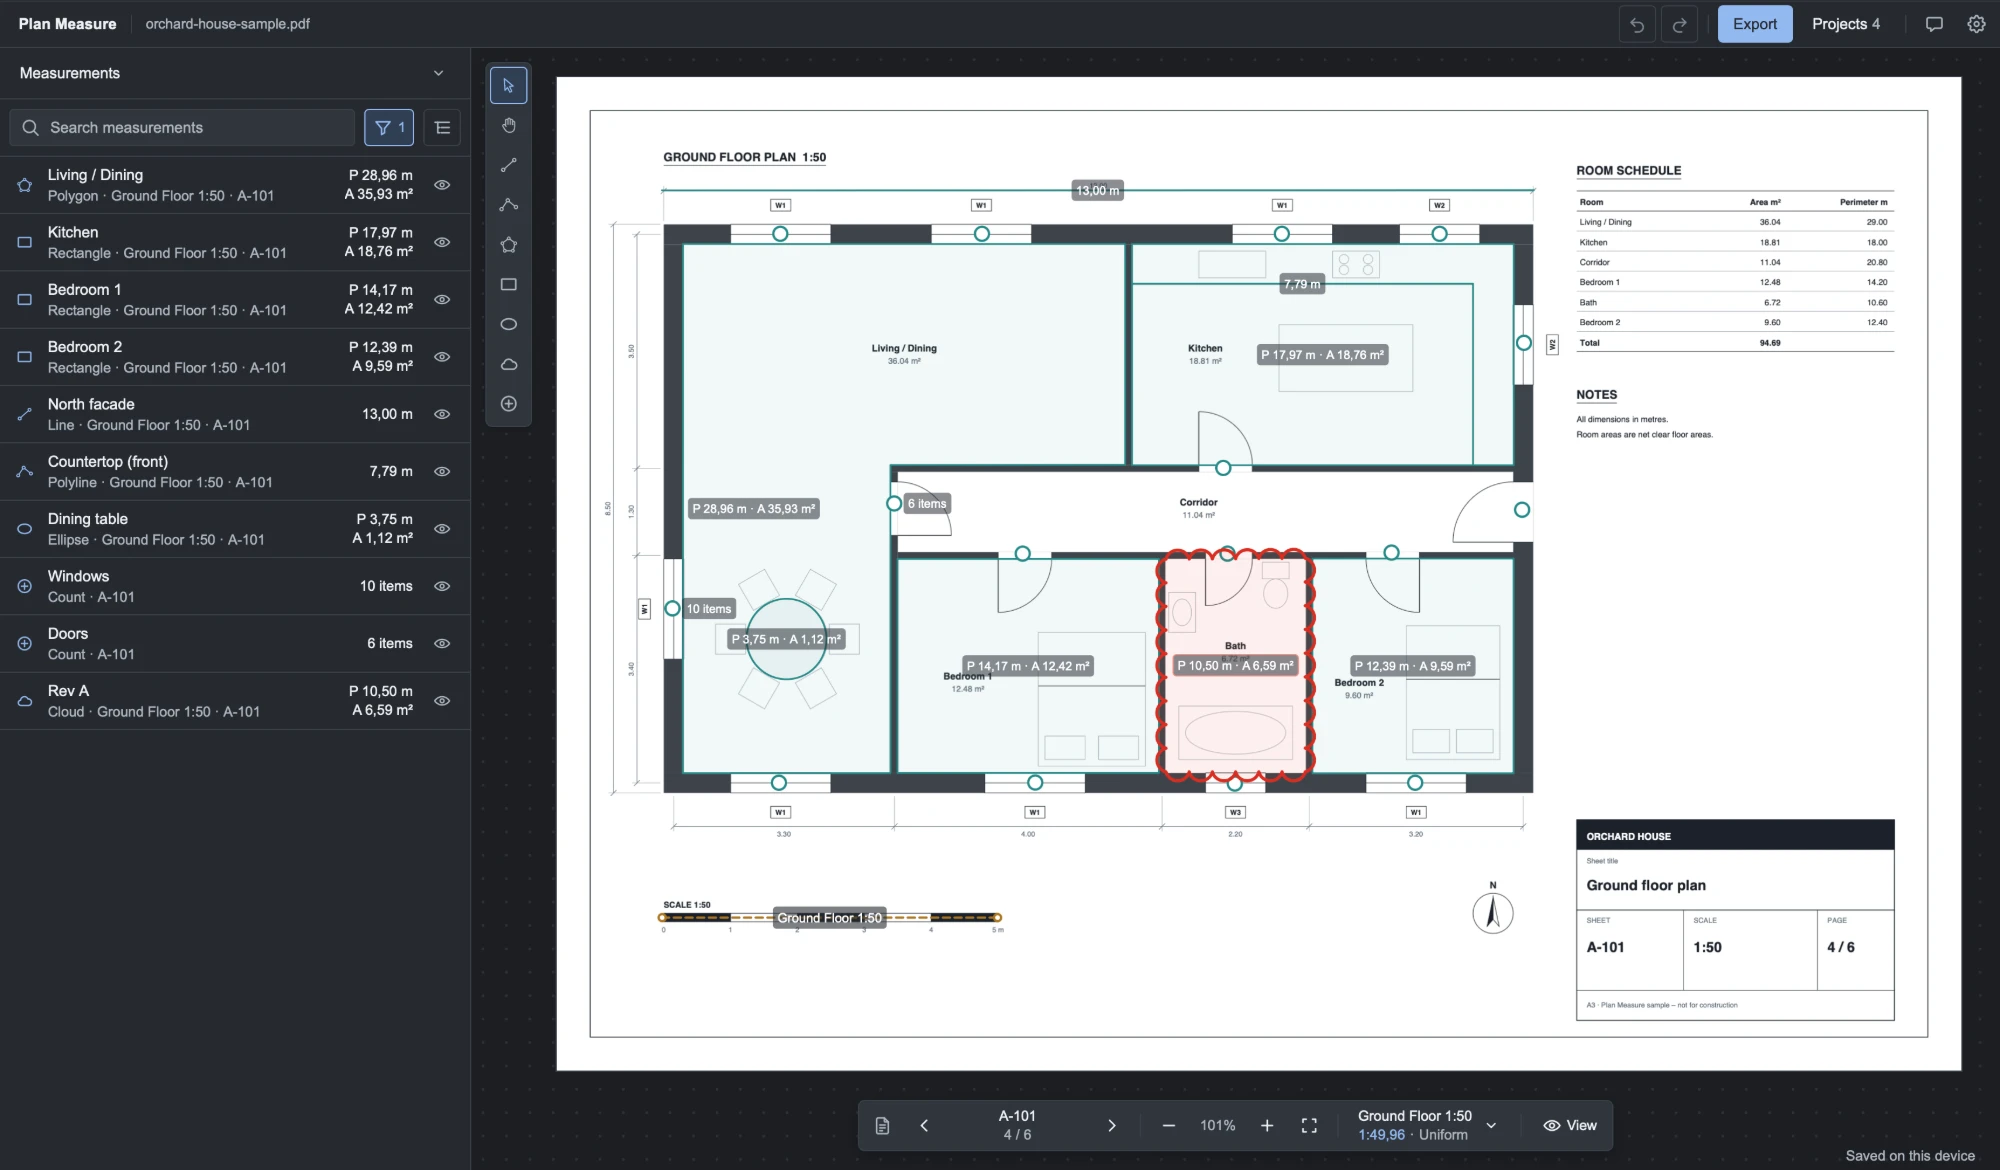
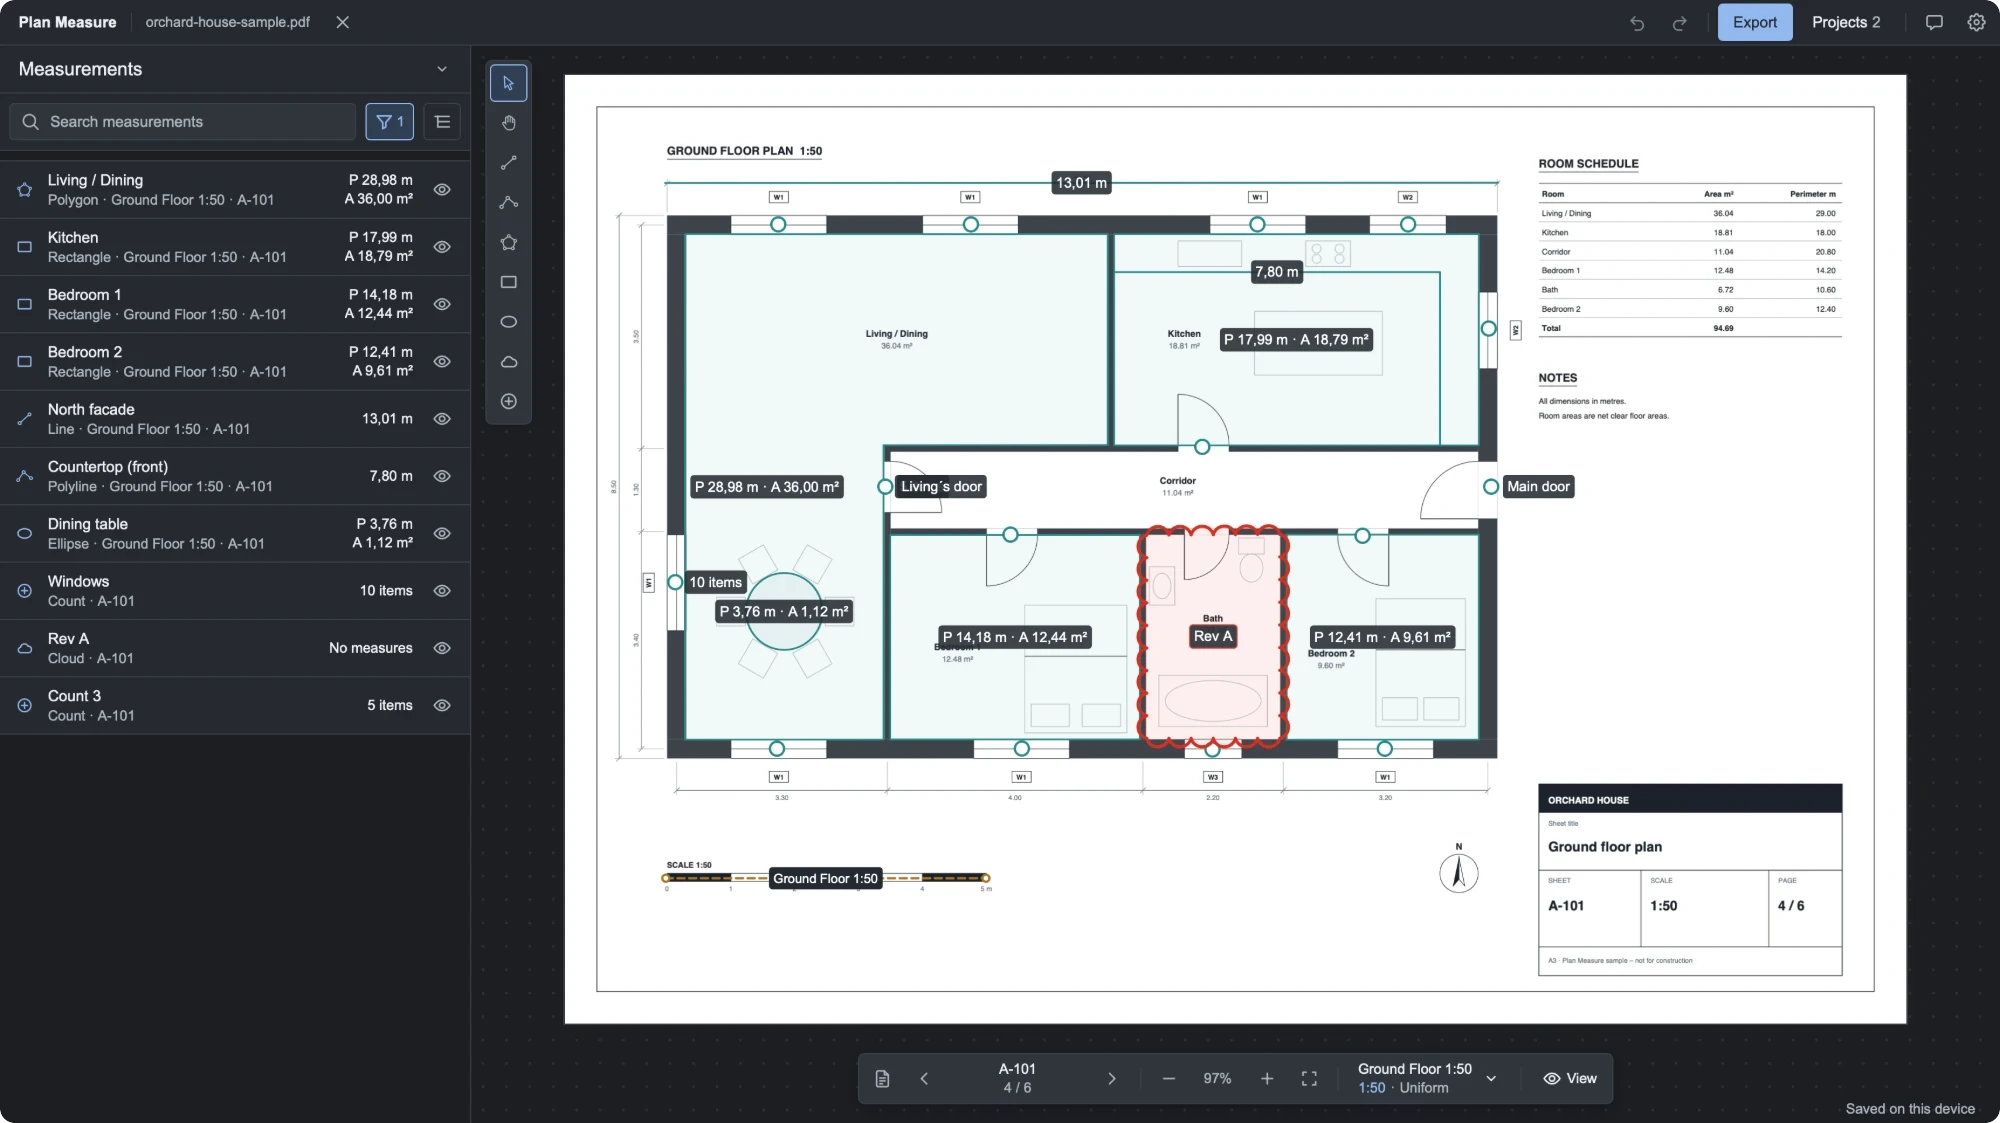
docs: refresh README screenshot and rewrite its copy (#485)
## Summary

- Replace the README screenshot with a current capture of the workspace,
and rewrite the README so it reads more naturally, with lighter
formatting: plain links for opening the app and the sample, no bold UI
labels, and clearer sections.

## Validation

- `npx prettier --check README.md`
- `git diff --check`
- Checked that all local links and the
`docs/user-guide.md#install-the-app-and-use-it-offline` anchor exist.

🤖 Generated with [Claude Code](https://claude.com/claude-code)

diff --git a/README.md b/README.md
@@ -1,51 +1,58 @@
 <div align="center">
-
-<img src="assets/plan-measure-logo.svg" alt="Plan Measure logo" width="128">
-
-# Plan Measure
-
-[![Open Plan Measure](https://img.shields.io/badge/Open-Plan%20Measure-2563eb)](https://userfypp.github.io/plan-measure/)
-[![Try a sample project](https://img.shields.io/badge/Try-a%20sample%20project-16a34a)](https://userfypp.github.io/plan-measure/?sample=1)
-[![CI](https://img.shields.io/github/actions/workflow/status/userfypp/plan-measure/ci.yml?label=CI)](https://github.com/userfypp/plan-measure/actions/workflows/ci.yml)
-[![License: MIT](https://img.shields.io/badge/license-MIT-blue)](LICENSE)
-[![Release](https://img.shields.io/github/v/release/userfypp/plan-measure)](https://github.com/userfypp/plan-measure/releases)
-
+  <p>
+    <a href="https://userfypp.github.io/plan-measure/">
+      <picture>
+        <source media="(prefers-color-scheme: dark) and (max-width: 600px)" srcset="assets/readme/hero-narrow-dark.svg">
+        <source media="(max-width: 600px)" srcset="assets/readme/hero-narrow-light.svg">
+        <source media="(prefers-color-scheme: dark)" srcset="assets/readme/hero-wide-dark.svg">
+        <img src="assets/readme/hero-wide-light.svg" alt="Plan Measure: quantity takeoffs from PDF plans, right in your browser.">
+      </picture>
+    </a>
+  </p>
+  <p><a href="https://userfypp.github.io/plan-measure/"><picture><source media="(prefers-color-scheme: dark)" srcset="assets/readme/button-open-dark.svg"><img src="assets/readme/button-open-light.svg" alt="Open the app"></picture></a><a href="https://userfypp.github.io/plan-measure/?sample=1"><picture><source media="(prefers-color-scheme: dark)" srcset="assets/readme/button-sample-dark.svg"><img src="assets/readme/button-sample-light.svg" alt="Try the sample project"></picture></a></p>
 </div>
 
-Measure distances, perimeters, and areas on architectural PDF plans, then export takeoff totals. Free and MIT licensed, with no account: it runs in your browser and plans are never uploaded. You can also install it as an app and use it offline after the first visit. Missing something? [Open an issue](https://github.com/userfypp/plan-measure/issues/new/choose).
+![Plan Measure with a ground floor plan open: rooms measured as polygons, rectangles and an ellipse, doors and windows counted, and every measurement listed with its perimeter and area](assets/screenshots/plan-measure-overview.webp)
 
-![Plan Measure workspace](assets/screenshots/plan-measure-overview.webp)
+Drop in a PDF, set the scale once, and measure lengths, perimeters, areas and counts directly on the drawing. Totals add up across every page and leave as the spreadsheet or annotated PDF you already work with.
 
-## Features
+There is no account, no upload and no subscription. Plans never leave your device, projects save themselves, and once installed the app keeps working offline. It is free and MIT licensed.
 
-- Calibrate each page with a reference distance, separate X/Y scales, or a known ratio.
-- Draw and edit lines, polylines, polygons, rectangles, ellipses, and clouds with Snap, Ortho, and undo/redo.
-- Count items, or box one symbol to find every similar one.
-- Organize measurements with classifications, groups, notes, and reusable templates.
+## What you can do
+
+- Calibrate each page from a known distance, a ratio, or separate X and Y scales.
+- Draw lines, polylines, polygons, rectangles, ellipses and revision clouds, with snapping, ortho and undo.
+- Count symbols one by one, or box one and let Find similar locate the rest.
+- Organize work with classifications, groups, notes and reusable templates.
 - Review totals across pages in Takeoff, with optional prices.
-- Compare two versions of a plan.
-- Rebind any keyboard shortcut and tune drawing in Settings.
-- Export CSV, XLSX, ODS, JSON, annotated PDFs, or editable project backups.
+- Compare two revisions of the same plan.
+- Rebind any shortcut and tune how drawing behaves.
+- Export CSV, XLSX, ODS, JSON, annotated PDFs or editable project backups.
 
-## Quick start
+## Your first measurement
 
-1. Choose **Open PDF** or drop a PDF into the workspace, or **Try a sample**.
-2. In **Scales → Add scale**, mark a known distance and enter its real-world length.
-3. Choose **Line**, **Polyline**, or **Polygon**, click to place points, and press `Enter` to finish.
-4. Open **Takeoff** for totals or **Export** to download results.
+1. Open a PDF or drop it on the workspace, or start from the sample.
+2. In Scales, choose Add scale, mark a known distance and type its real length.
+3. Pick a drawing tool, click to place points and press `Enter` to finish.
+4. Open Takeoff for totals, or Export to take them with you.
 
-See the [user guide](docs/user-guide.md) for scales, editing, settings, keyboard controls, exports, recovery, and [offline use](docs/user-guide.md#install-the-app-and-use-it-offline).
+The [user guide](docs/user-guide.md) covers scales, editing, settings, keyboard controls, exports, recovery and [offline use](docs/user-guide.md#install-the-app-and-use-it-offline).
 
-## Storage and limits
+## Good to know
 
-Projects autosave in this browser, with no cloud sync; clearing site data removes them. Use **Export backup** (save status) or **Projects → Export** to keep a `.planmeasure` backup with the PDF and editable data. JSON and spreadsheet exports are not backups.
+- Projects live only in this browser, and clearing site data removes them. Keep a `.planmeasure` backup with the PDF and editable data from Export backup or Projects → Export; JSON and spreadsheet exports are not backups.
+- PDFs can be up to 100 MiB (104.9 MB). Password-protected files cannot be opened.
+- Drawing needs at least 480 × 360 px of viewer space and a mouse, trackpad or pen, unless keyboard authoring is on in Settings.
+- X/Y calibration corrects differing axis scales, not skew or perspective.
+- Offline use needs one online visit first and is not available in private windows.
 
-- PDFs up to 100 MiB (104.9 MB); password-protected PDFs cannot be opened.
-- Drawing needs at least 480 × 360 px of viewer space and a fine pointer, or keyboard authoring enabled in Settings.
-- X/Y calibration corrects axis scale differences, not skew or perspective.
-- Offline use needs one online visit first; private windows skip it.
+Missing something? [Open an issue](https://github.com/userfypp/plan-measure/issues/new/choose).
 
 ## Development
+
+[![CI](https://img.shields.io/github/actions/workflow/status/userfypp/plan-measure/ci.yml?label=CI)](https://github.com/userfypp/plan-measure/actions/workflows/ci.yml)
+[![Release](https://img.shields.io/github/v/release/userfypp/plan-measure)](https://github.com/userfypp/plan-measure/releases)
+[![License: MIT](https://img.shields.io/badge/license-MIT-blue)](LICENSE)
 
 Requires Node.js 24 (pinned in `.nvmrc`):
 
@@ -54,4 +61,4 @@ npm ci
 npm run dev
 ```
 
-[User guide](docs/user-guide.md) · [Contributing](CONTRIBUTING.md) · [Architecture](docs/ARCHITECTURE.md) · [Performance](docs/PERFORMANCE.md) · [Roadmap](docs/ROADMAP.md) · [Releasing](docs/RELEASING.md) · [JSON export contract](docs/export-json.md) · [Changelog](CHANGELOG.md) · [Credits](CREDITS.md) · [Security](SECURITY.md) · [Code of conduct](CODE_OF_CONDUCT.md)
+[Contributing](CONTRIBUTING.md) · [Architecture](docs/ARCHITECTURE.md) · [Performance](docs/PERFORMANCE.md) · [Roadmap](docs/ROADMAP.md) · [Releasing](docs/RELEASING.md) · [JSON export contract](docs/export-json.md) · [Changelog](CHANGELOG.md) · [Credits](CREDITS.md) · [Security](SECURITY.md) · [Code of conduct](CODE_OF_CONDUCT.md)
